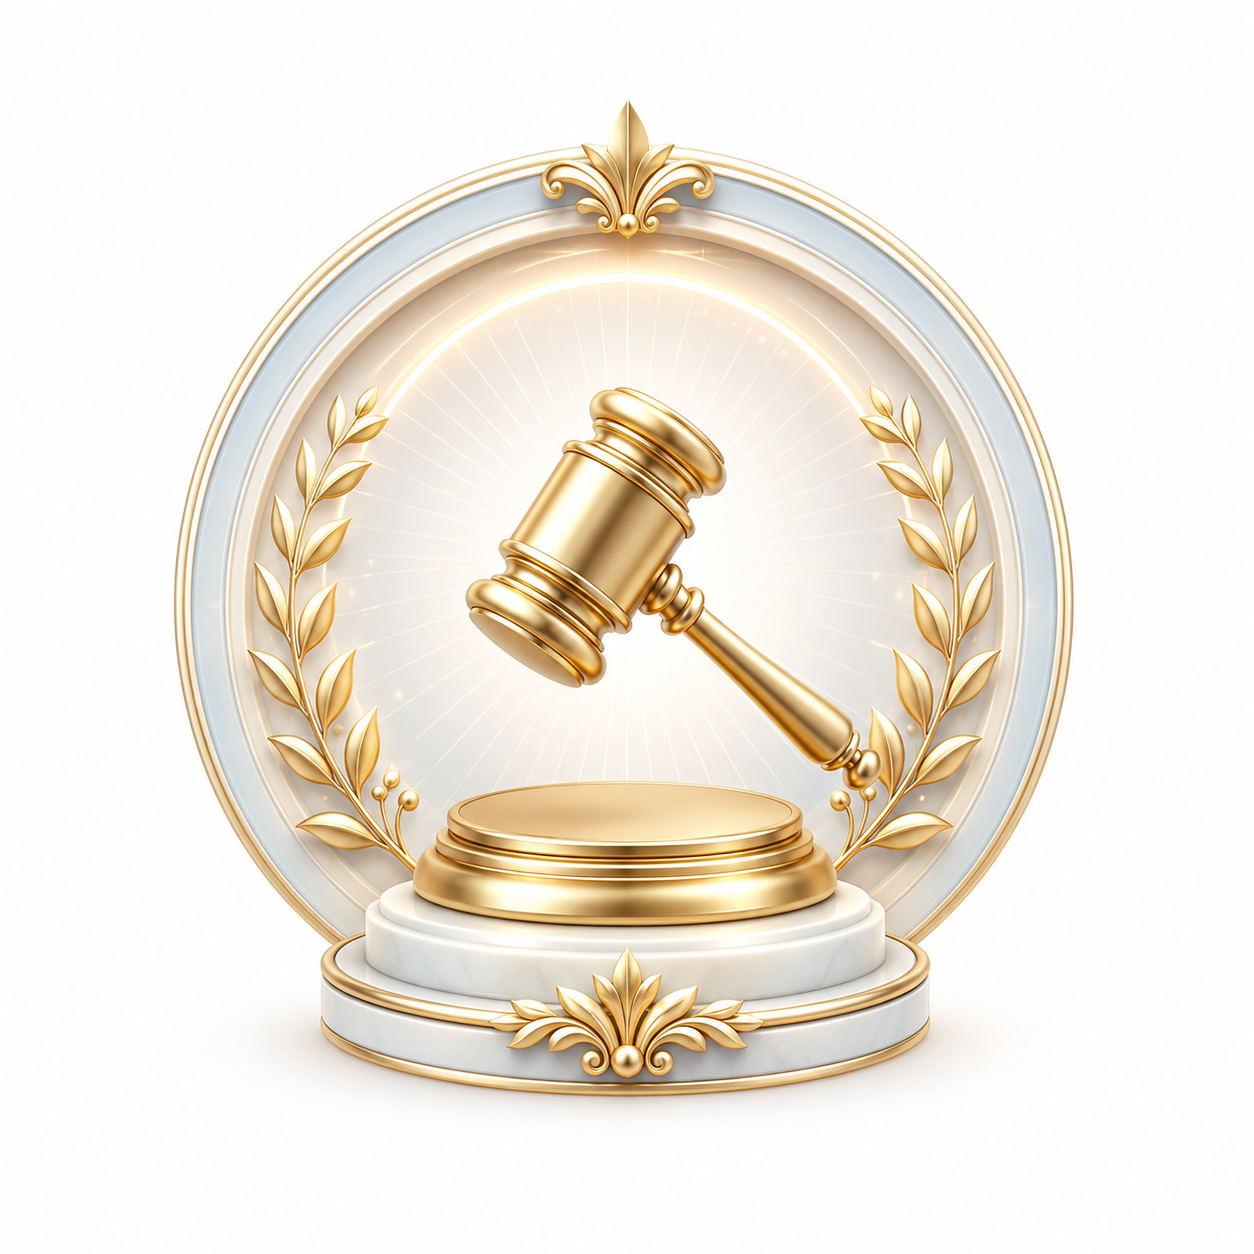
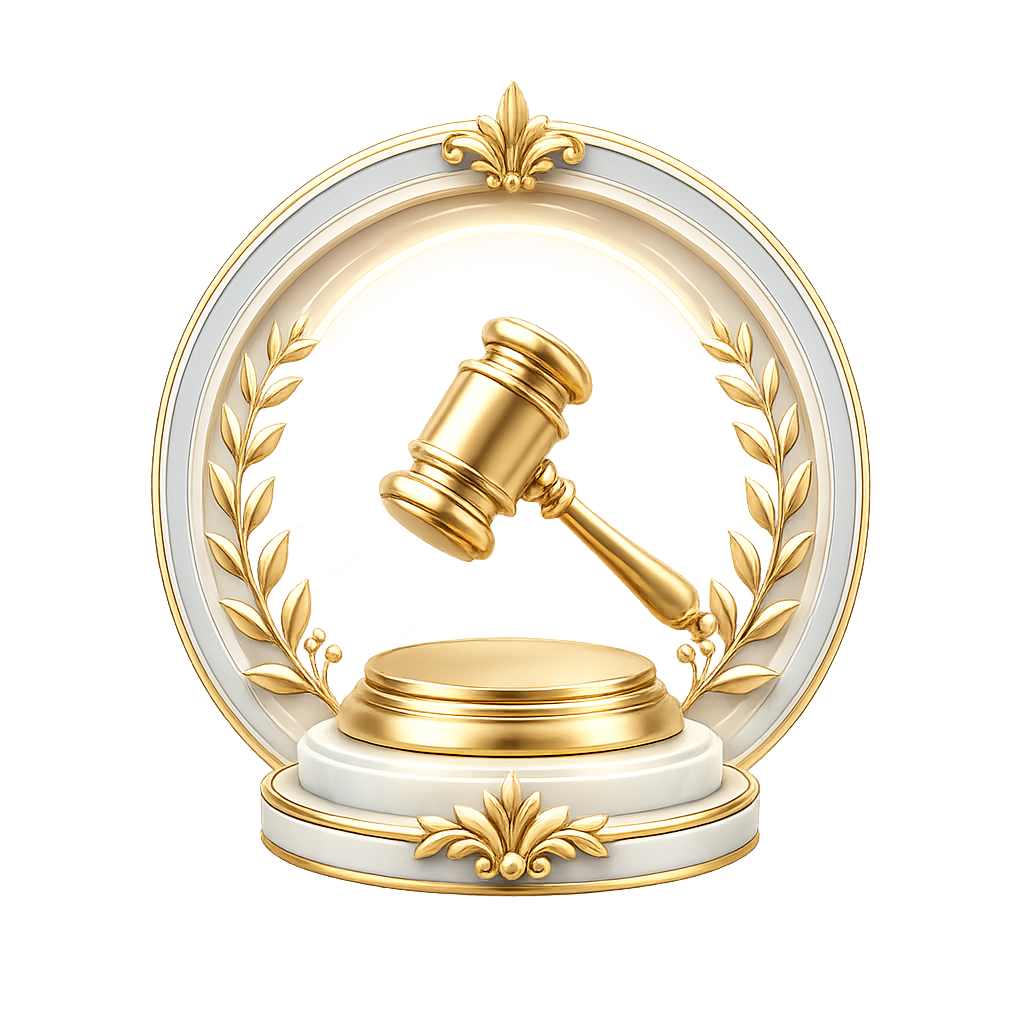
update seller lobby

Changed region(s): [[0.125, 0.0938, 0.875, 0.9062]]

diff --git a/auction-client/src/main/resources/com/example/auctionprototype/css/seller-lobby.css b/auction-client/src/main/resources/com/example/auctionprototype/css/seller-lobby.css
@@ -1,0 +1,230 @@
+/* ==========================================================================
+   TOÀN BỘ GIAO DIỆN PREMIUM SELLER LOBBY (NAVY & GOLD LUXURY)
+   ========================================================================== */
+
+/* 1. NỀN TOÀN MÀN HÌNH SELLER */
+.bidder-root {
+    -fx-font-family: "Segoe UI", "Arial", sans-serif;
+    -fx-background-image: url("../images/background_bidder_mainLobby_taskboard.png");
+
+        /* 3. Thiết lập thuộc tính hiển thị ảnh nền */
+        -fx-background-repeat: no-repeat;  /* Không lặp lại ảnh */
+        -fx-background-position: center;   /* Căn giữa ảnh */
+        -fx-background-size: cover;
+}
+
+.bidder-shell {
+    -fx-background-color: transparent;
+}
+
+/* 2. THANH THANH THANH NAV TASKBOARD (TOP NAV) */
+.top-nav-taskboard {
+    -fx-background-color: #07182e;
+    -fx-border-color: transparent transparent #dfc17b transparent;
+    -fx-border-width: 0 0 2px 0; /* Viền vàng hoàng gia bên dưới thanh điều hướng */
+}
+
+.bidder-header {
+    -fx-padding: 15px 25px;
+    -fx-background-color: transparent;
+}
+
+/* Chữ tiêu đề SELLER */
+.bidder-title {
+    -fx-font-size: 26px;
+    -fx-font-weight: bold;
+    -fx-text-fill: linear-gradient(to bottom, #ffffff, #dfc17b);
+    -fx-effect: dropshadow(three-pass-box, rgba(0, 0, 0, 0.6), 5, 0, 0, 0);
+}
+
+/* Khối hiển thị Số dư (Wallet Card) */
+.bidder-wallet-card {
+    -fx-background-color: rgba(223, 193, 123, 0.12);
+    -fx-background-radius: 12px;
+    -fx-border-color: #dfc17b;
+    -fx-border-radius: 12px;
+    -fx-border-width: 1px;
+    -fx-padding: 6px 16px;
+}
+
+.bidder-wallet-text {
+    -fx-font-size: 15px;
+    -fx-font-weight: bold;
+    -fx-text-fill: #dfc17b;
+}
+
+/* Khối chào mừng Username */
+.welcome-user-chip {
+    -fx-background-color: rgba(255, 255, 255, 0.05);
+    -fx-background-radius: 12px;
+    -fx-border-color: rgba(255, 255, 255, 0.15);
+    -fx-border-radius: 12px;
+    -fx-border-width: 1px;
+    -fx-padding: 6px 16px;
+}
+
+.bidder-welcome-text {
+    -fx-font-size: 15px;
+    -fx-font-weight: bold;
+    -fx-text-fill: #ffffff;
+}
+
+/* Nút Đăng xuất (Log out) */
+.bidder-logout-button {
+    -fx-background-color: linear-gradient(to bottom, #e74c3c, #c0392b);
+    -fx-text-fill: white;
+    -fx-font-weight: bold;
+    -fx-background-radius: 8px;
+    -fx-cursor: hand;
+    -fx-effect: dropshadow(three-pass-box, rgba(0, 0, 0, 0.3), 4, 0, 0, 2);
+}
+.bidder-logout-button:hover {
+    -fx-background-color: linear-gradient(to bottom, #ff6b6b, #e74c3c);
+}
+
+/* 3. KHU VỰC THÂN CHÍNH (MAIN BODY CARDS) */
+.bidder-main-content {
+    -fx-padding: 20px;
+    -fx-background-color: transparent;
+}
+
+/* Thiết kế 3 khối hộp (Tỷ giá, Phòng đấu giá, Ghi chú) */
+.bidder-exchange-card, .bidder-auctions-card, .bidder-notes-card {
+    -fx-background-color: rgba(11, 27, 49, 0.9); /* Xanh Navy tối cao cấp */
+    -fx-background-radius: 16px;
+    -fx-border-color: rgba(223, 193, 123, 0.25); /* Viền vàng mờ tinh tế */
+    -fx-border-radius: 16px;
+    -fx-border-width: 1px;
+    -fx-padding: 22px;
+    -fx-effect: dropshadow(three-pass-box, rgba(0, 0, 0, 0.5), 12, 0, 0, 5);
+}
+
+/* Tiêu đề của các hộp card con */
+.bidder-card-title {
+    -fx-font-size: 18px;
+    -fx-font-weight: bold;
+    -fx-text-fill: #dfc17b; /* Màu chữ vàng kim */
+}
+
+.bidder-card-subtitle {
+    -fx-font-size: 12px;
+    -fx-text-fill: #8ca2bc;
+}
+
+/* 4. CHI TIẾT CỘT TỶ GIÁ (BÊN TRÁI) */
+.bidder-rate-row {
+    -fx-padding: 10px;
+    -fx-background-color: rgba(255, 255, 255, 0.02);
+    -fx-background-radius: 8px;
+    -fx-border-color: rgba(255, 255, 255, 0.04);
+    -fx-border-radius: 8px;
+    -fx-border-width: 1px;
+}
+
+.bidder-rate-row-featured {
+    -fx-padding: 10px;
+    -fx-background-color: rgba(223, 193, 123, 0.07);
+    -fx-background-radius: 8px;
+    -fx-border-color: rgba(223, 193, 123, 0.35);
+    -fx-border-radius: 8px;
+    -fx-border-width: 1px;
+}
+
+.bidder-rate-name {
+    -fx-text-fill: #e1ecf7;
+    -fx-font-size: 13px;
+}
+
+.bidder-rate-value {
+    -fx-text-fill: #dfc17b;
+    -fx-font-weight: bold;
+    -fx-font-size: 13px;
+}
+
+/* 5. CỘT GIỮA: KHU VỰC TIÊU ĐỀ PHÒNG ĐẤU GIÁ & NÚT TẠO PHÒNG */
+.bidder-auctions-title-bar {
+    -fx-padding: 0 0 12px 0;
+    -fx-border-color: transparent transparent rgba(223, 193, 123, 0.2) transparent;
+    -fx-border-width: 0 0 1px 0;
+}
+
+.bidder-section-title {
+    -fx-font-size: 20px;
+    -fx-font-weight: bold;
+    -fx-text-fill: #ffffff;
+}
+
+.bidder-gold-line {
+    -fx-background-color: #dfc17b;
+}
+
+/* NÚT + CREATE AUCTION ĐƯỢC CHÈN CSS HOÀNG GIA */
+.bidder-auctions-title-bar .button {
+    -fx-background-color: linear-gradient(to bottom right, #dfc17b, #b39652);
+    -fx-text-fill: #0c2340;
+    -fx-font-weight: bold;
+    -fx-font-size: 13px;
+    -fx-background-radius: 8px;
+    -fx-padding: 8px 18px;
+    -fx-cursor: hand;
+    -fx-effect: dropshadow(three-pass-box, rgba(0, 0, 0, 0.3), 5, 0, 0, 2);
+}
+/* Hiệu ứng di chuột (Sáng nút) */
+.bidder-auctions-title-bar .button:hover {
+    -fx-background-color: linear-gradient(to bottom right, #ebd296, #c5a967);
+    -fx-effect: dropshadow(three-pass-box, rgba(223, 193, 123, 0.45), 8, 0, 0, 0);
+}
+/* Hiệu ứng nhấn nút (Lún xuống) */
+.bidder-auctions-title-bar .button:pressed {
+    -fx-background-color: linear-gradient(to bottom right, #b39652, #91753b);
+}
+
+/* Xoá bỏ các lớp phủ mờ cũ để lưới phòng hiển thị sắc nét */
+.bidder-auction-content-stack, .bidder-auction-glass-overlay, .bidder-auction-scroll {
+    -fx-background: transparent;
+    -fx-background-color: transparent;
+}
+.bidder-auction-grid {
+    -fx-background-color: transparent;
+    -fx-padding: 4px;
+}
+
+/* 6. CỘT GHI CHÚ BÊN PHẢI (SELLER NOTES) */
+.bidder-note-row {
+    -fx-padding: 10px 12px;
+    -fx-background-color: rgba(255, 255, 255, 0.03);
+    -fx-background-radius: 10px;
+    -fx-border-color: rgba(223, 193, 123, 0.15);
+    -fx-border-radius: 10px;
+    -fx-border-width: 1px;
+}
+
+.bidder-note-bullet {
+    -fx-font-size: 16px;
+    -fx-text-fill: #dfc17b;
+    -fx-font-weight: bold;
+}
+
+.bidder-note-text {
+    -fx-font-size: 13px;
+    -fx-text-fill: #cbd5e1;
+}
+
+/* 7. LÀM ĐẸP THANH CUỘN (SCROLLBAR) KHÔNG BỊ THÔ CỨNG */
+.scroll-pane {
+    -fx-background-color: transparent;
+}
+.scroll-pane > .viewport {
+    -fx-background-color: transparent;
+}
+.scroll-bar:vertical, .scroll-bar:horizontal {
+    -fx-background-color: rgba(0, 0, 0, 0.2);
+    -fx-background-radius: 4px;
+}
+.scroll-bar:vertical .thumb, .scroll-bar:horizontal .thumb {
+    -fx-background-color: rgba(223, 193, 123, 0.35);
+    -fx-background-radius: 4px;
+}
+.scroll-bar:vertical .thumb:hover, .scroll-bar:horizontal .thumb:hover {
+    -fx-background-color: #dfc17b;
+}
